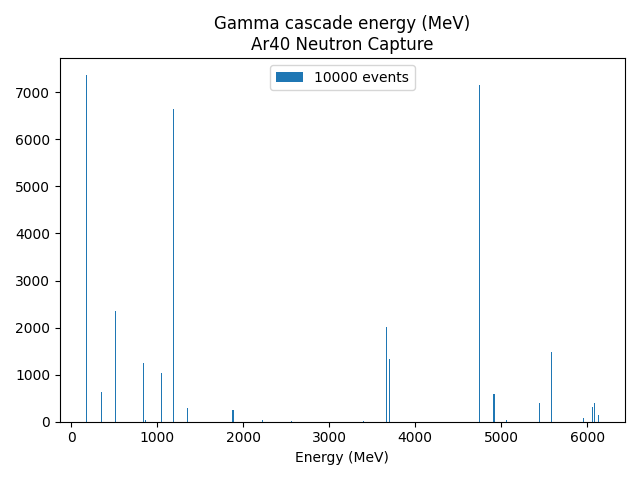
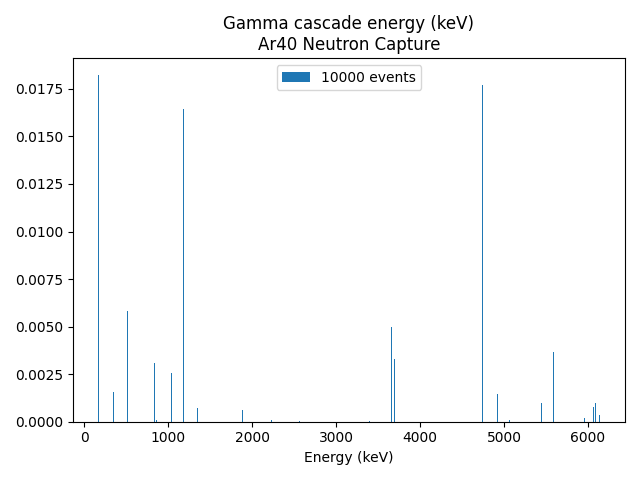
some changes

diff --git a/plot_spectrum.py b/plot_spectrum.py
@@ -23,11 +23,11 @@ def plot_spectrum(
     
     fig, axs = plt.subplots()
     axs.hist(energies, bins=500, label="{} events".format(len(cascades)))
-    axs.set_xlabel("Energy (MeV)")
+    axs.set_xlabel("Energy (keV)")
     if title != '':
-        axs.set_title("Gamma cascade energy (MeV)\n"+title)
+        axs.set_title("Gamma cascade energy (keV)\n"+title)
     else:
-        axs.set_title("Gamma cascade energy (MeV)")
+        axs.set_title("Gamma cascade energy (keV)")
     plt.legend()
     plt.tight_layout()
     if save_plot != '':
